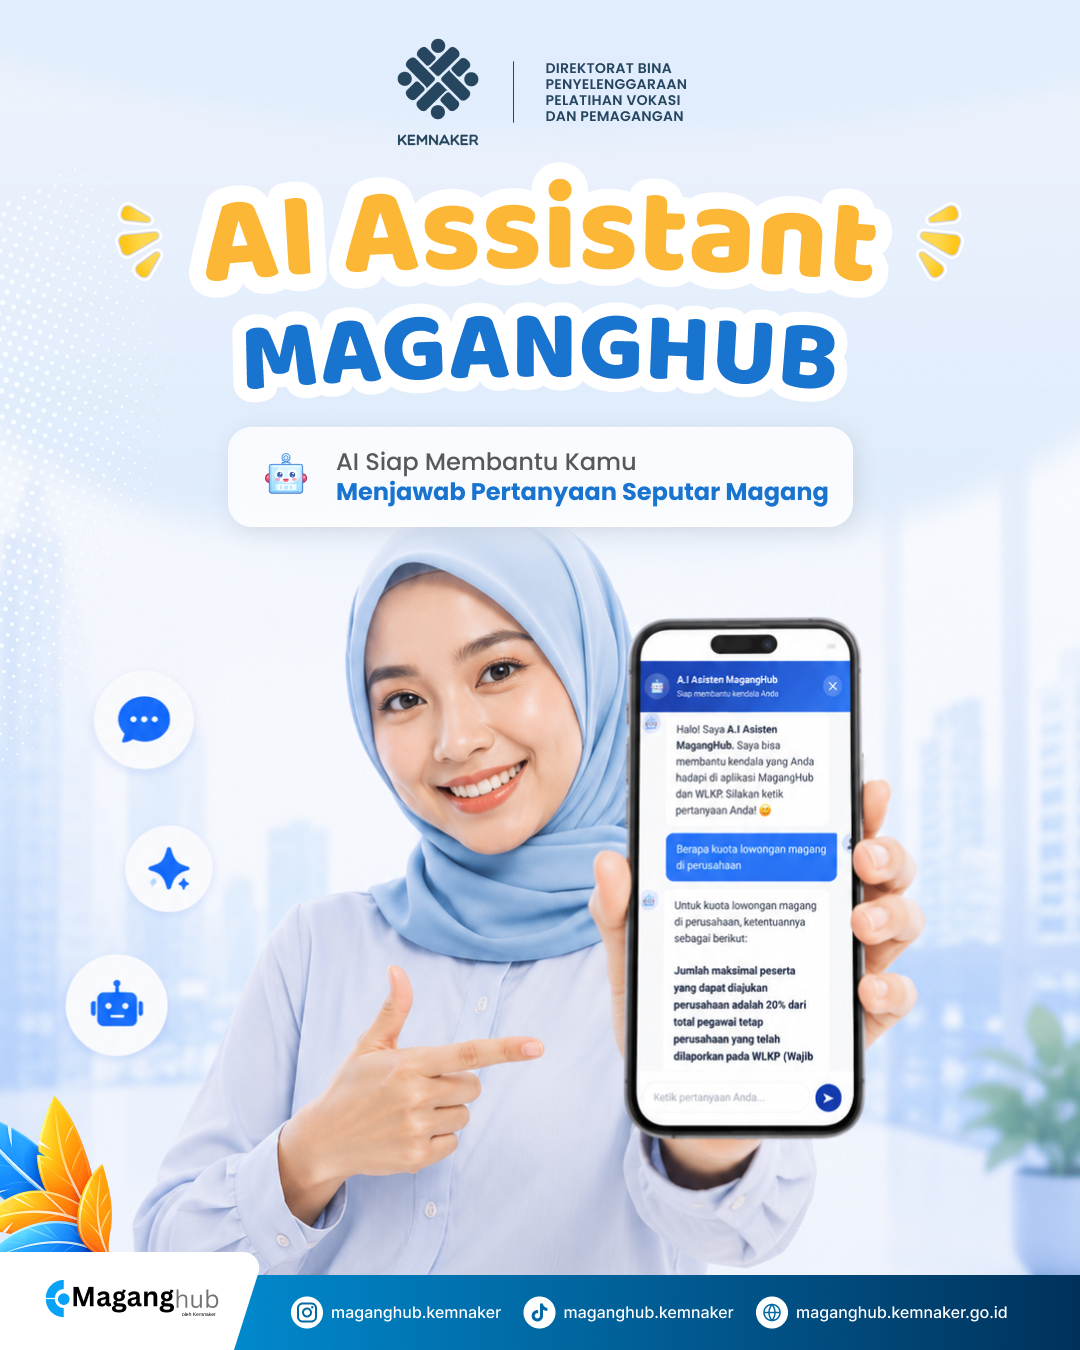
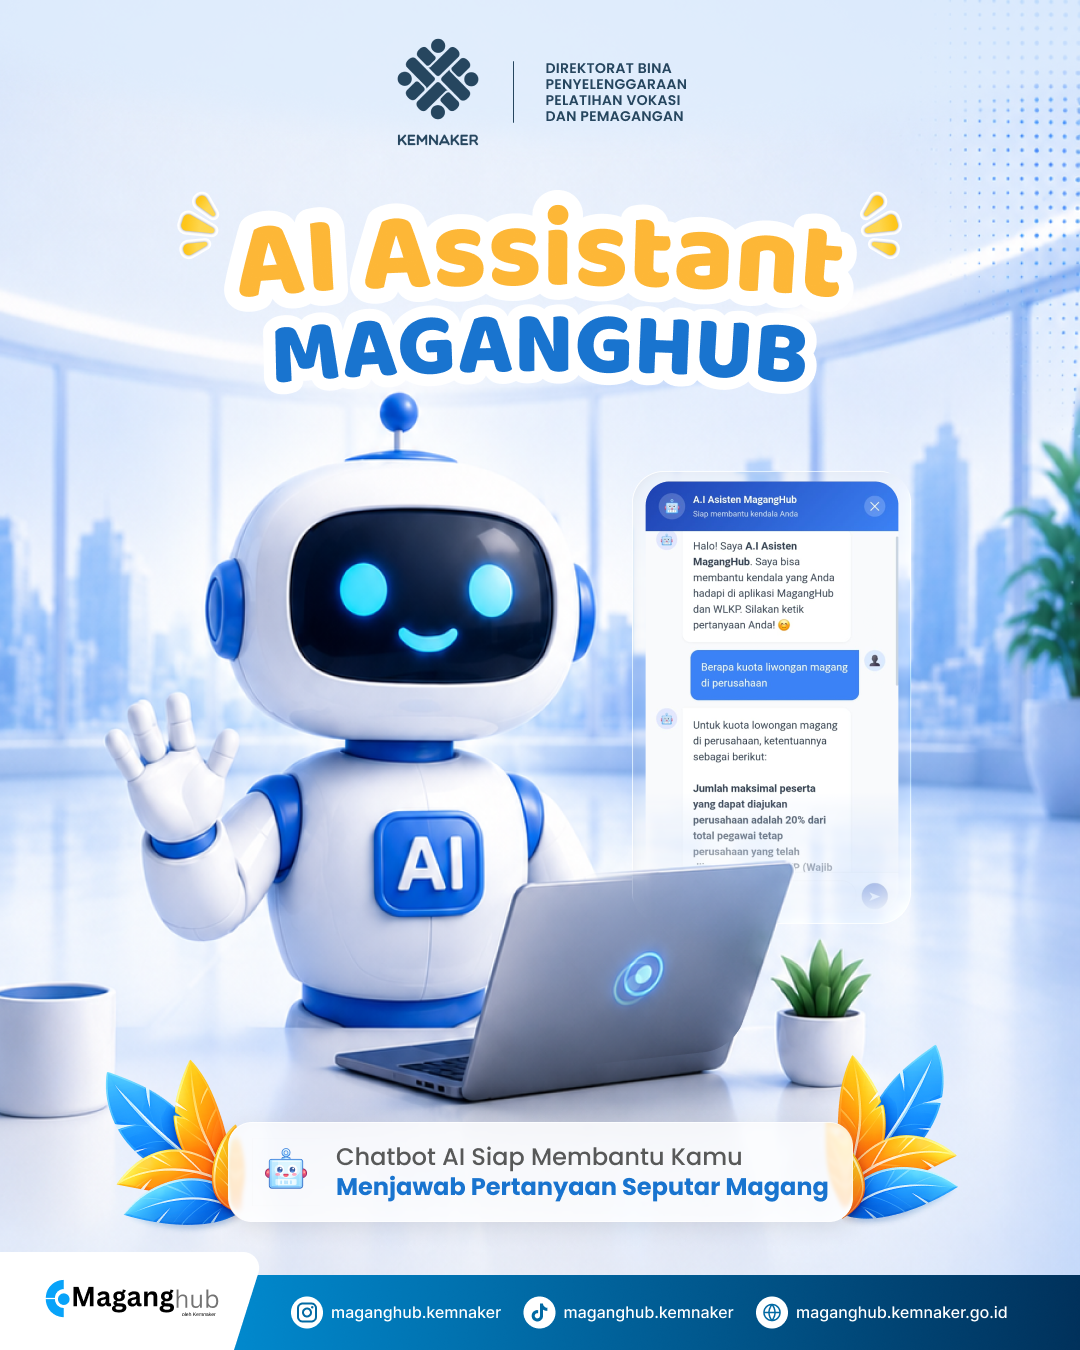
update

diff --git a/src/app/data/projects.ts b/src/app/data/projects.ts
@@ -300,7 +300,7 @@ export const projects: Project[] = [
     id: 4, title: "Maganghub.kemnaker", year: "Nov'2025 - Mei'2026", category: "social",
     accent: "#e040fb", role: "Graphic Designer",
     description: "Brand-aligned social media visual system for a creative design studio targeting creative industry professionals.",
-    tags: ["Instagram", "Branding", "Motion", "Canva"],
+    tags: ["Instagram", "Branding", "Graphics Design", "Canva"],
     mockupBg: "linear-gradient(135deg, #1a0028 0%, #3a004d 100%)",
     heroImage: Images.maganghubhero,
     detailImages: ["https://images.unsplash.com/photo-1563986768609-322da13575f3?w=800&q=80", "https://images.unsplash.com/photo-1557804506-669a67965ba0?w=800&q=80"],
@@ -314,14 +314,14 @@ export const projects: Project[] = [
       { label: "Monthly Reach", value: "28K" },
     ],
     gallery: [
-      { label: "Instagram Feed", img: Images.maganghub1, aspect: "4/5" },
+      { label: "Instagram Feed", img: Images.maganghub7, aspect: "4/5" },
       { label: "Instagram Feed", img: Images.maganghub2, aspect: "4/5" },
       { label: "Instagram Feed", img: Images.maganghub3, aspect: "4/5" },
       { label: "Instagram Feed", img: Images.maganghub4, aspect: "4/5" },
-      { label: "Instagram Feed", img: Images.maganghub5, aspect: "4/5" },
-      { label: "Instagram Feed", img: Images.maganghub6, aspect: "4/5" },
-      { label: "Instagram Feed", img: Images.maganghub7, aspect: "4/5" },
       { label: "Instagram Feed", img: Images.maganghub8, aspect: "4/5" },
+      { label: "Instagram Feed", img: Images.maganghub6, aspect: "4/5" },
+      { label: "Instagram Feed", img: Images.maganghub1, aspect: "4/5" },
+      { label: "Instagram Feed", img: Images.maganghub5, aspect: "4/5" },
       { label: "Instagram Feed", img: Images.maganghub9, aspect: "4/5" },
     ],
   },
@@ -386,9 +386,9 @@ export const projects: Project[] = [
       { label: "Instagram Feed", img: Images.greenleafstory1, aspect: "9/16" },
       { label: "Instagram Feed", img: Images.greenleafstory2, aspect: "9/16" },
       { label: "Instagram Feed", img: Images.greenleafstory3, aspect: "9/16" },
-      { label: "Instagram Feed", img: Images.greenleaffeeds2, aspect: "4/5" },
-      { label: "Instagram Feed", img: Images.greenleaffeeds1, aspect: "4/5" },
-      { label: "Instagram Feed", img: Images.greenleaffeeds3, aspect: "4/5" },
+      { label: "Instagram Feed", img: Images.greenleaffeeds2, aspect: "1/1" },
+      { label: "Instagram Feed", img: Images.greenleaffeeds1, aspect: "1/1" },
+      { label: "Instagram Feed", img: Images.greenleaffeeds3, aspect: "1/1" },
     ],
   },
   // {

diff --git a/src/app/sections/AboutSection.tsx b/src/app/sections/AboutSection.tsx
@@ -31,8 +31,8 @@ export default function AboutSection({ lang }: { lang: Lang }) {
       </div>
 
       {[
-        { label: t.about.stat1, value: "40+", accent: C.cyan, pos: { top: "8%", left: "-6%" } },
-        { label: t.about.stat2, value: "25+", accent: C.purple, pos: { bottom: "8%", right: "-6%" } },
+        { label: t.about.stat1, value: "10+", accent: C.cyan, pos: { top: "8%", left: "-6%" } },
+        { label: t.about.stat2, value: "10+", accent: C.purple, pos: { bottom: "8%", right: "-6%" } },
       ].map(({ label, value, accent, pos }) => (
         <div key={label} className="hidden md:block" style={{ position: "absolute", ...pos, padding: "12px 18px", borderRadius: 16, background: "rgba(8,8,28,0.85)", border: `1px solid ${accent}40`, backdropFilter: "blur(12px)", boxShadow: `0 8px 32px rgba(0,0,0,0.5)` }}>
           <div style={{ fontSize: 9, color: C.textFaint, fontFamily: "'Space Mono', monospace", letterSpacing: "0.1em", marginBottom: 2 }}>{label.toUpperCase()}</div>
